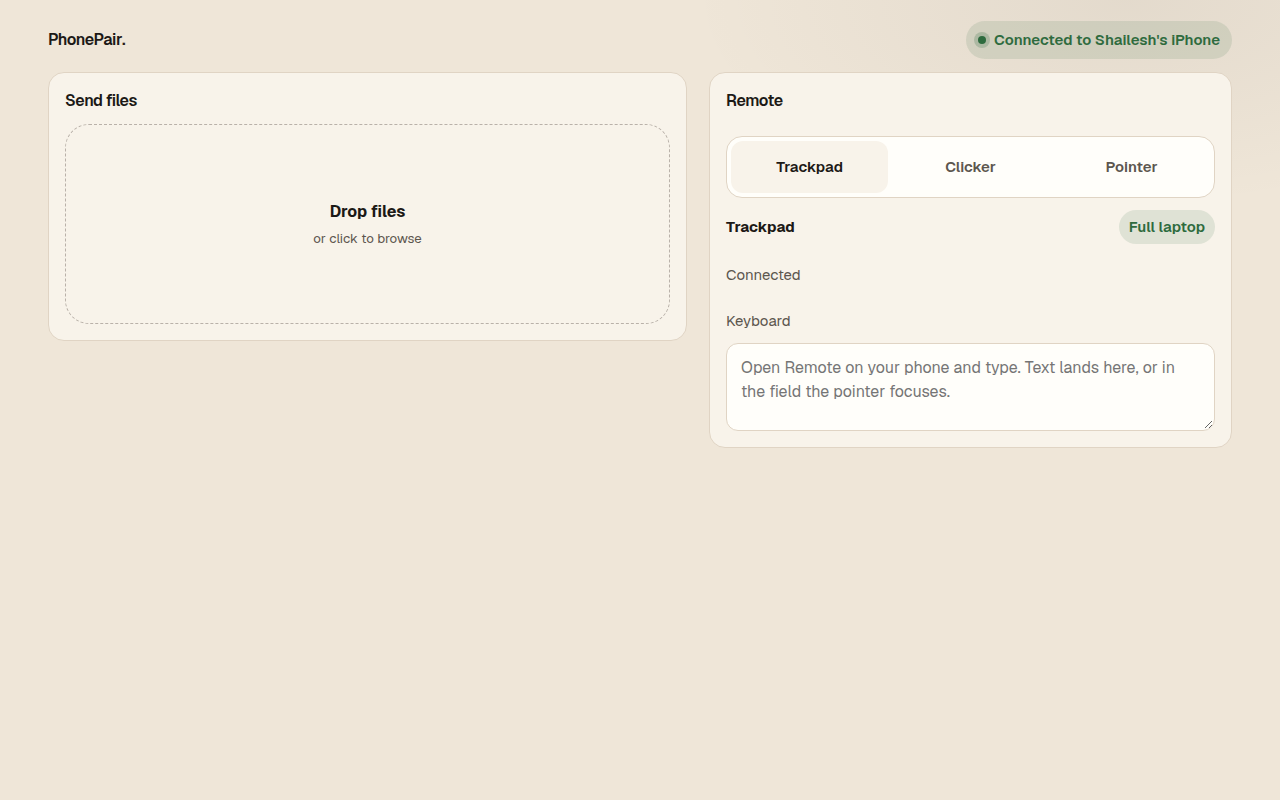
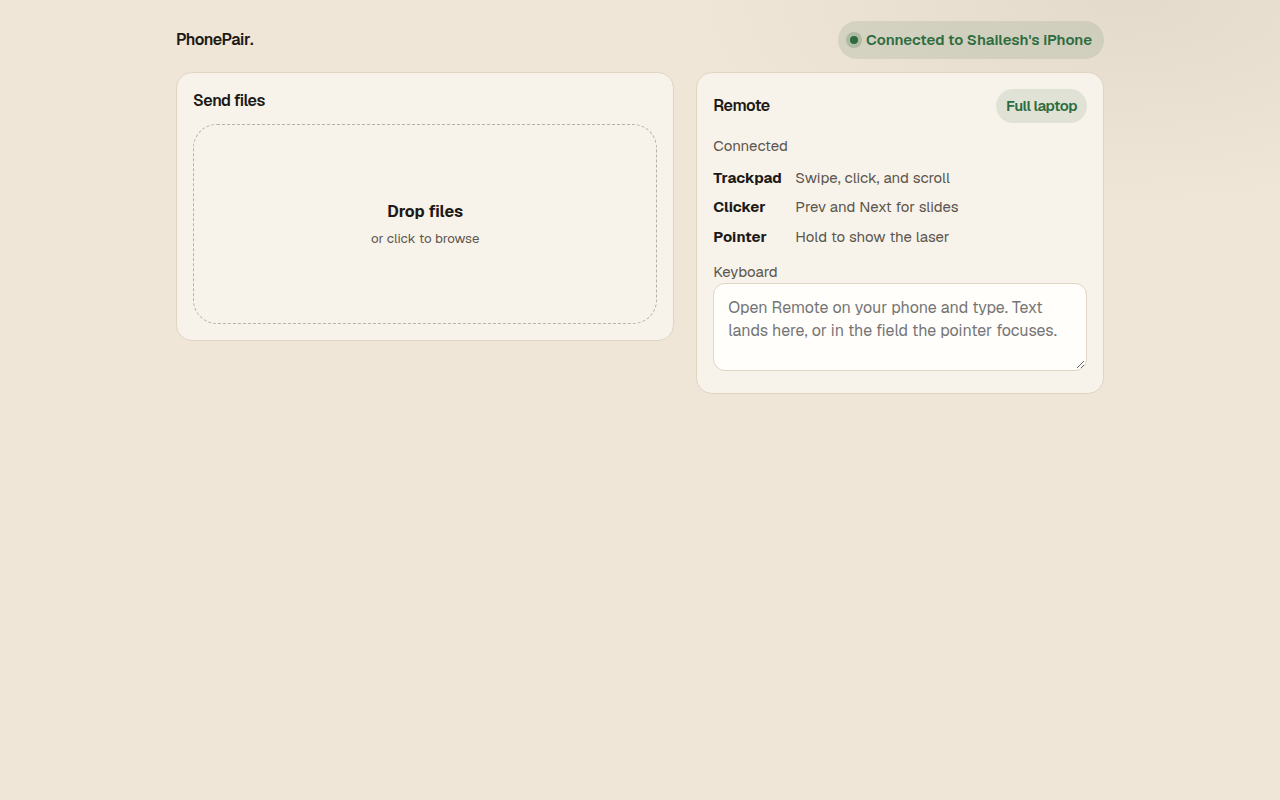
Revise remote onto a single screen

diff --git a/design/specs-2026-11-12/c-remote.html b/design/specs-2026-11-12/c-remote.html
@@ -7,10 +7,15 @@
 <link rel="stylesheet" href="mock-base.css">
 <link rel="stylesheet" href="espresso-additions.css">
 <style>
-.only-phone .pp-remote { padding-top: 8px; }
-.only-phone .pp-seg { margin-top: auto; }
-.mode-line { display: flex; justify-content: space-between; align-items: center; gap: 8px; margin-bottom: 8px; }
-.mode-line b { font-size: 15px; }
+.caps { list-style: none; display: flex; flex-direction: column; gap: 8px; margin: 10px 0 12px; }
+.caps li { display: flex; gap: 10px; align-items: baseline; font-size: 15px; }
+.caps b { width: 72px; flex: none; }
+.caps span { color: var(--muted); }
+.only-phone .pp-remote { min-height: 0; }
+.only-phone .pp-remote-pad { flex: 1 1 45%; height: auto; min-height: 0; }
+.btn.soft { background: var(--accent-soft); color: var(--accent); }
+.only-phone .two .btn { min-height: 48px; width: 100%; }
+.only-phone .kb { min-height: 48px; padding: 10px 14px; }
 </style>
 </head>
 <body>
@@ -28,19 +33,18 @@
           </div>
         </div>
         <div class="col">
-          <section class="card pad pp-remote" data-testid="remote-panel" style="flex:none">
-            <h3>Remote</h3>
-            <div class="pp-seg" role="tablist" aria-label="Remote mode">
-              <button type="button" class="pp-seg-btn" role="tab" aria-selected="true" data-testid="rtab-trackpad">Trackpad</button>
-              <button type="button" class="pp-seg-btn" role="tab" aria-selected="false" data-testid="rtab-clicker">Clicker</button>
-              <button type="button" class="pp-seg-btn" role="tab" aria-selected="false" data-testid="rtab-pointer">Pointer</button>
-            </div>
-            <div class="mode-line">
-              <b>Trackpad</b>
+          <section class="card pad" data-testid="remote-panel">
+            <h3 class="h-row" style="display:flex;justify-content:space-between;align-items:center">
+              <span>Remote</span>
               <span class="tag ok" data-testid="full-laptop-badge">Full laptop</span>
-            </div>
+            </h3>
             <p class="mut small" data-testid="helper-status">Connected</p>
-            <label class="mut small" for="remote-text" style="display:block;margin-top:12px">Keyboard</label>
+            <ul class="caps">
+              <li><b>Trackpad</b><span>Swipe, click, and scroll</span></li>
+              <li><b>Clicker</b><span>Prev and Next for slides</span></li>
+              <li><b>Pointer</b><span>Hold to show the laser</span></li>
+            </ul>
+            <label class="mut small" for="remote-text">Keyboard</label>
             <textarea id="remote-text" class="clip" data-testid="remote-text" rows="2" placeholder="Open Remote on your phone and type. Text lands here, or in the field the pointer focuses."></textarea>
           </section>
         </div>
@@ -51,25 +55,22 @@
     <header class="top">
       <a class="logo" href="/">PhonePair<i>.</i></a>
       <span class="ttl">Remote</span>
-      <span class="pill">iPhone</span>
     </header>
     <div class="pp-remote">
-      <span class="tag ok" data-testid="full-laptop-badge">Full laptop</span>
       <div class="pp-remote-pad" id="pp-trackpad" data-testid="trackpad">
         <p>Swipe to move · tap to click<br>two fingers to scroll</p>
         <div class="pad-scroll" data-testid="scroll-strip" role="scrollbar" aria-orientation="vertical" aria-label="Scroll" aria-controls="pp-trackpad">↕</div>
       </div>
       <div class="two">
-        <button type="button" class="btn ghost big" data-testid="lclick">Left click</button>
-        <button type="button" class="btn ghost big" data-testid="rclick">Right click</button>
+        <button type="button" class="btn ghost" data-testid="lclick">Left click</button>
+        <button type="button" class="btn ghost" data-testid="rclick">Right click</button>
       </div>
-      <button type="button" class="btn ghost big" data-testid="kb-toggle">Keyboard</button>
+      <div class="pp-remote-clicker">
+        <button type="button" class="btn soft" data-testid="prev">Prev</button>
+        <button type="button" class="btn" data-testid="next">Next</button>
+      </div>
+      <button type="button" class="pp-remote-laser" data-testid="pointer">Pointer · hold to point</button>
       <input class="kb" data-testid="kb-input" placeholder="Type here, it appears on the laptop">
-      <div class="pp-seg" role="tablist" aria-label="Remote mode">
-        <button type="button" class="pp-seg-btn" role="tab" aria-selected="true" data-testid="rtab-trackpad">Trackpad</button>
-        <button type="button" class="pp-seg-btn" role="tab" aria-selected="false" data-testid="rtab-clicker">Clicker</button>
-        <button type="button" class="pp-seg-btn" role="tab" aria-selected="false" data-testid="rtab-pointer">Pointer</button>
-      </div>
     </div>
   </div>
 </body>

diff --git a/design/specs-2026-11-12/espresso-additions.css b/design/specs-2026-11-12/espresso-additions.css
@@ -103,30 +103,9 @@
 .pp-remote {
   display: flex;
   flex-direction: column;
-  gap: 12px;
+  gap: 8px;
   min-height: 0;
   flex: 1;
-}
-.pp-seg {
-  display: grid;
-  grid-template-columns: repeat(3, minmax(0, 1fr));
-  gap: 4px;
-  background: var(--surface-2);
-  border: 1px solid var(--line);
-  border-radius: var(--r-lg);
-  padding: 4px;
-}
-.pp-seg-btn {
-  min-height: 52px;
-  border-radius: var(--r-md);
-  font-weight: 600;
-  font-size: 15px;
-  color: var(--muted);
-  background: transparent;
-}
-.pp-seg-btn[aria-selected="true"] {
-  background: var(--surface);
-  color: var(--text);
 }
 .pp-remote-pad {
   position: relative;
@@ -156,6 +135,30 @@
   display: grid;
   place-items: center;
   color: var(--muted);
+}
+.pp-remote-clicker { display: grid; grid-template-columns: 1fr 1fr; gap: 10px; }
+.pp-remote-clicker .btn { width: 100%; min-height: 64px; font-size: 17px; font-weight: 700; }
+.pp-remote-laser {
+  width: 100%;
+  min-height: 52px;
+  border-radius: var(--r-lg);
+  border: 1px solid var(--line);
+  background: var(--surface);
+  color: var(--text);
+  font-weight: 600;
+  font-size: 16px;
+  display: inline-flex;
+  align-items: center;
+  justify-content: center;
+  gap: 8px;
+}
+.pp-remote-laser::before {
+  content: "";
+  width: 10px;
+  height: 10px;
+  border-radius: 50%;
+  background: var(--spark);
+  box-shadow: 0 0 0 4px rgba(196, 160, 106, .28);
 }
 
 .pp-device-row { width: 100%; }

diff --git a/design/specs-2026-11-12/SPEC.md b/design/specs-2026-11-12/SPEC.md
@@ -46,15 +46,15 @@ Keep: `connect-laptop`, `helper-steps`, `helper-hint`, `helper-status`, `helper-
 
 ## C — One remote
 
-Phone (`.pp-remote`) and the laptop card share one segmented control. Last mode is `localStorage["pp-remote-mode"]` = `trackpad` | `clicker` | `pointer`.
+No mode tabs. Drop `.pp-seg` for the remote. Trackpad, clicker, and pointer sit on one phone screen, top to bottom, with no scroll at 390×844.
 
-Tabs: `.pp-seg` > `.pp-seg-btn` with `aria-selected`. Test ids stay `rtab-trackpad`, `rtab-clicker`, `rtab-pointer`. On the phone the tabs sit at the bottom (thumb), min-height 52px.
+1. `.pp-remote-pad` about 45% of the height, `data-testid="trackpad"`, scroll strip `scroll-strip`. Hint: Swipe to move · tap to click, two fingers to scroll.
+2. Left / Right under the pad: `lclick`, `rclick`.
+3. `.pp-remote-clicker`: big Prev / Next (`prev`, `next`). They send arrow and page keys so a slideshow can flip.
+4. `.pp-remote-laser`: press and hold to show the laser, release to hide. Label **Pointer**. `data-testid="pointer"`.
+5. Keyboard field `kb-input`. Placeholder: **Type here, it appears on the laptop**.
 
-- Trackpad: `.pp-remote-pad` `data-testid="trackpad"`, scroll strip `scroll-strip`, Left/Right `lclick` / `rclick`. Hint: Swipe to move · tap to click, two fingers to scroll.
-- Clicker: hide the pad and click row. Prev/Next (`prev`, `next`) are the large targets. Hint: Prev and Next send arrow and page keys to the laptop, so a slideshow open in this tab can flip.
-- Pointer: same pad. Hint: Swipe to move the pointer, tap to click, two fingers to scroll. Keep `data-testid="pointer"` on the laptop cursor overlay.
-
-Keyboard: `kb-toggle` (**Keyboard**) reveals `kb-input`, placeholder **Type here, it appears on the laptop**. On the laptop card the field is the existing `remote-text` textarea under the mode control: **Open Remote on your phone and type. Text lands here, or in the field the pointer focuses.** Laptop card also shows the current mode label and `helper-status`.
+Laptop card `data-testid="remote-panel"`, title **Remote**. One summary: `helper-status` (**Connected**) and the three capabilities (trackpad, clicker, pointer). No segmented control. Keyboard placement is `remote-text`: **Open Remote on your phone and type. Text lands here, or in the field the pointer focuses.**
 
 Keep `full-laptop-badge` (**Full laptop**) when the helper is connected.
 
